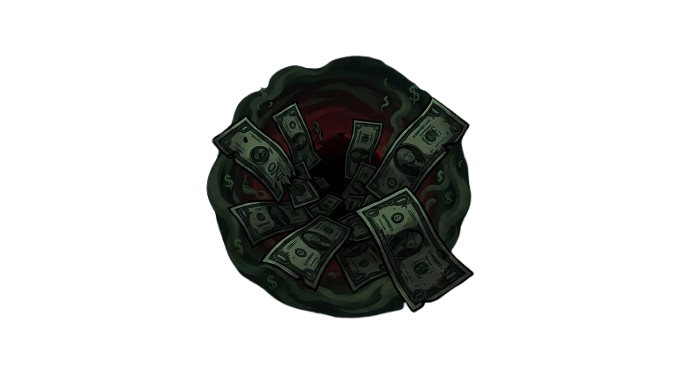
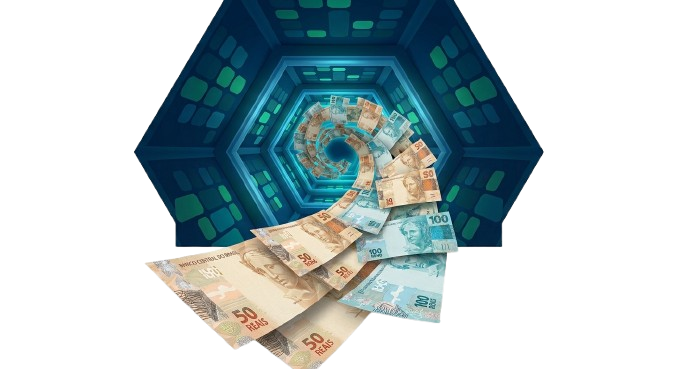
refactor:conclusão das melhorias

diff --git a/templates/dashboard.html b/templates/dashboard.html
@@ -251,7 +251,200 @@
     {% endif %}
   </div>
 
+  <!-- ── Animated Investment Section ─────────────────────────────────────────── -->
+  <div class="relative mt-24 mb-6 mx-auto max-w-5xl h-[380px] rounded-[2rem] overflow-hidden glass opacity-0 transition-opacity duration-1000 flex items-center justify-center border border-white/5 glow-sm reveal-on-scroll">
+    <!-- Imagem vindo da direita -->
+    <img
+      src="/assets/invest.webp"
+      alt="Investimentos"
+      class="absolute right-0 z-0 w-3/4 h-full object-cover translate-x-full transition-transform duration-[1.8s] ease-in-out reveal-img"
+      style="mask-image: linear-gradient(to right, transparent 0%, rgba(0,0,0,0.4) 30%, rgba(0,0,0,1) 100%);
+             -webkit-mask-image: linear-gradient(to right, transparent 0%, rgba(0,0,0,0.4) 30%, rgba(0,0,0,1) 100%);"
+    />
+
+    <div class="absolute inset-0 bg-gradient-to-r from-slate-950 via-slate-950/80 to-transparent z-10 w-full pointer-events-none"></div>
+
+    <!-- Texto motivacional na esquerda -->
+    <div class="relative z-20 text-left w-full px-8 md:px-12 md:w-3/5 ml-0 mr-auto text-shadow-lg">
+      <h3 class="text-3xl md:text-4xl font-bold bg-clip-text text-transparent bg-gradient-to-r from-brand-400 to-indigo-300 tracking-tight mb-3">Expanda seu Império</h3>
+      <p class="text-slate-300 text-sm md:text-base leading-relaxed">
+        Diversifique seu radar com novas oportunidades mundiais. Mantenha os olhos nos fundamentos sólidos e deixe o poder avassalador dos juros compostos trabalhar o tempo a seu favor.
+      </p>
+    </div>
+
+    <!-- Tickers flutuando subindo (marquee vertical) -->
+    <div class="absolute right-4 md:right-12 bottom-0 z-20 flex flex-col overflow-hidden h-[300px] w-32 md:w-48 fade-mask pointer-events-none">
+      <div class="animate-marquee-up flex flex-col gap-3 md:gap-4 text-xs md:text-sm font-mono font-bold">
+        <div class="glass py-2 px-3 md:px-4 rounded-xl text-emerald-400 flex justify-between shadow-lg"><span>PETR4</span> <span>+5.2%</span></div>
+        <div class="glass py-2 px-3 md:px-4 rounded-xl text-emerald-400 flex justify-between shadow-lg"><span>NVDA</span> <span>+8.1%</span></div>
+        <div class="glass py-2 px-3 md:px-4 rounded-xl text-red-400 flex justify-between shadow-lg"><span>MGLU3</span> <span>-1.5%</span></div>
+        <div class="glass py-2 px-3 md:px-4 rounded-xl text-emerald-400 flex justify-between shadow-lg"><span>WEGE3</span> <span>+3.8%</span></div>
+        <div class="glass py-2 px-3 md:px-4 rounded-xl text-emerald-400 flex justify-between shadow-lg"><span>BTC</span> <span>+11.2%</span></div>
+        <div class="glass py-2 px-3 md:px-4 rounded-xl text-emerald-400 flex justify-between shadow-lg"><span>ITUB4</span> <span>+1.2%</span></div>
+        <!-- Duplicados para loop contínuo -->
+        <div class="glass py-2 px-3 md:px-4 rounded-xl text-emerald-400 flex justify-between shadow-lg"><span>PETR4</span> <span>+5.2%</span></div>
+        <div class="glass py-2 px-3 md:px-4 rounded-xl text-emerald-400 flex justify-between shadow-lg"><span>NVDA</span> <span>+8.1%</span></div>
+        <div class="glass py-2 px-3 md:px-4 rounded-xl text-red-400 flex justify-between shadow-lg"><span>MGLU3</span> <span>-1.5%</span></div>
+        <div class="glass py-2 px-3 md:px-4 rounded-xl text-emerald-400 flex justify-between shadow-lg"><span>WEGE3</span> <span>+3.8%</span></div>
+        <div class="glass py-2 px-3 md:px-4 rounded-xl text-emerald-400 flex justify-between shadow-lg"><span>BTC</span> <span>+11.2%</span></div>
+        <div class="glass py-2 px-3 md:px-4 rounded-xl text-emerald-400 flex justify-between shadow-lg"><span>ITUB4</span> <span>+1.2%</span></div>
+      </div>
+    </div>
+  </div>
+
+  <style>
+    /* Reveal via Observer */
+    .reveal-active {
+      opacity: 1 !important;
+    }
+    .reveal-active .reveal-img {
+      transform: translateX(0) !important;
+    }
+    
+    @keyframes marqueeUp {
+      0%   { transform: translateY(0); }
+      100% { transform: translateY(-50%); }
+    }
+    .animate-marquee-up {
+      animation: marqueeUp 20s linear infinite;
+    }
+    
+    .fade-mask {
+      mask-image: linear-gradient(to bottom, transparent 0%, rgba(0,0,0,1) 20%, rgba(0,0,0,1) 80%, transparent 100%);
+      -webkit-mask-image: linear-gradient(to bottom, transparent 0%, rgba(0,0,0,1) 20%, rgba(0,0,0,1) 80%, transparent 100%);
+    }
+    
+    .text-shadow-lg {
+      text-shadow: 0 4px 15px rgba(0,0,0,0.9);
+    }
+    
+    .reveal-active .reveal-center {
+      opacity: 1 !important;
+      transform: scale(1) translateY(0) !important;
+    }
+    .reveal-active .reveal-item-left,
+    .reveal-active .reveal-item-right {
+      opacity: 1 !important;
+      transform: translateX(0) !important;
+    }
+
+    /* Money Burst Animation */
+    .reveal-active .money-burst span {
+      display: block;
+      animation: burst 1.5s cubic-bezier(0.1, 1, 0.4, 1) forwards;
+      animation-delay: 1.8s; /* waits for slider connection */
+      opacity: 0;
+    }
+
+    @keyframes burst {
+      0%   { transform: scale(0) translate(0, 0); opacity: 0; }
+      10%  { opacity: 1; }
+      100% { opacity: 0; transform: scale(1.5) translate(var(--tx), var(--ty)) rotate(var(--rot)); }
+    }
+    
+    .particle-1 { --tx: -120px; --ty: -120px; --rot: -45deg; }
+    .particle-2 { --tx: 120px;  --ty: -120px; --rot: 45deg; }
+    .particle-3 { --tx: -150px; --ty: 0px;    --rot: -20deg; }
+    .particle-4 { --tx: 150px;  --ty: 0px;    --rot: 20deg; }
+    .particle-5 { --tx: -100px; --ty: 120px;  --rot: -70deg; }
+    .particle-6 { --tx: 100px;  --ty: 120px;  --rot: 70deg; }
+  </style>
+
 </div>
+
+  <!-- ── Animated Idea Section ─────────────────────────────────────────── -->
+  <div class="relative mt-6 mb-20 mx-auto max-w-5xl h-[380px] rounded-[2rem] overflow-hidden glass opacity-0 transition-opacity duration-1000 flex items-center justify-center border border-white/5 glow-sm reveal-on-scroll">
+    <!-- Imagem vindo da esquerda -->
+    <img
+      src="/assets/ideia.jpg"
+      alt="Visão de Ouro"
+      class="absolute left-0 z-0 w-3/4 h-full object-cover -translate-x-full transition-transform duration-[1.8s] ease-in-out reveal-img"
+      style="mask-image: linear-gradient(to left, transparent 0%, rgba(0,0,0,0.4) 30%, rgba(0,0,0,1) 100%);
+             -webkit-mask-image: linear-gradient(to left, transparent 0%, rgba(0,0,0,0.4) 30%, rgba(0,0,0,1) 100%);"
+    />
+
+    <div class="absolute inset-0 bg-gradient-to-l from-slate-950 via-slate-950/80 to-transparent z-10 w-full pointer-events-none"></div>
+
+    <!-- Texto motivacional na direita -->
+    <div class="relative z-20 text-right w-full px-8 md:px-12 md:w-3/5 mr-0 ml-auto text-shadow-lg">
+      <h3 class="text-3xl md:text-4xl font-bold bg-clip-text text-transparent bg-gradient-to-l from-brand-400 to-indigo-300 tracking-tight mb-3">Perspectiva de Ouro</h3>
+      <p class="text-slate-300 text-sm md:text-base leading-relaxed">
+        Cada movimento no mercado é uma nova oportunidade. A intuição aliada ao conhecimento profundo te coloca invariavelmente um passo à frente da manada no tabuleiro financeiro.
+      </p>
+    </div>
+  </div>
+
+  <!-- ── Animated Contacts Section ─────────────────────────────────────────── -->
+  <div class="relative mt-20 mb-24 mx-auto max-w-4xl flex flex-col items-center opacity-0 transition-opacity duration-1000 reveal-on-scroll">
+    <h2 class="text-4xl md:text-5xl font-bold bg-clip-text text-transparent bg-gradient-to-r from-brand-400 to-indigo-400 tracking-tight mb-16 scale-50 translate-y-10 opacity-0 transition-all duration-[1.5s] ease-out reveal-center">Contatos</h2>
+    
+    <div class="relative flex flex-col md:flex-row items-center justify-center gap-16 w-full px-4">
+      
+      <!-- Money burst effect triggered automatically at 1.8s -->
+      <div class="hidden md:flex absolute left-1/2 top-1/2 -translate-x-1/2 -translate-y-1/2 z-50 pointer-events-none items-center justify-center money-burst">
+        <span class="absolute text-5xl particle-1 drop-shadow-xl">💸</span>
+        <span class="absolute text-5xl particle-2 drop-shadow-xl">💰</span>
+        <span class="absolute text-5xl particle-3 drop-shadow-xl">🤑</span>
+        <span class="absolute text-5xl particle-4 drop-shadow-xl">💵</span>
+        <span class="absolute text-5xl particle-5 drop-shadow-xl">🪙</span>
+        <span class="absolute text-5xl particle-6 drop-shadow-xl">💲</span>
+      </div>
+
+      <!-- Photo from left -->
+      <div class="relative w-64 h-64 md:w-80 md:h-80 rounded-[2rem] overflow-visible border border-white/10 glow-sm -translate-x-full opacity-0 transition-all duration-[1.8s] ease-out reveal-item-left shadow-2xl flex-shrink-0 bg-slate-900 z-10">
+        <img src="/assets/eu.jpg" alt="Alisson" class="w-full h-full object-cover object-top scale-105 hover:scale-110 transition-transform duration-500 rounded-[2rem]">
+        <!-- Chave -->
+        <div class="hidden md:block absolute top-1/2 -right-8 -translate-y-1/2 text-6xl drop-shadow-lg z-20 key-icon">🔑</div>
+      </div>
+      
+      <!-- GitHub from right -->
+      <div class="relative flex flex-col items-center md:items-start text-center md:text-left translate-x-full opacity-0 transition-all duration-[1.8s] ease-out reveal-item-right bg-slate-900/80 backdrop-blur-md p-8 rounded-[2rem] border border-white/5 w-full md:w-auto shadow-2xl z-10">
+        <!-- Fechadura -->
+        <div class="hidden md:block absolute top-1/2 -left-8 -translate-y-1/2 text-6xl drop-shadow-lg z-20 lock-icon">🔒</div>
+        <p class="text-sm text-slate-400 uppercase tracking-widest font-bold mb-2">Desenvolvido por</p>
+        <p class="text-4xl font-bold text-slate-100 mb-8 tracking-tight">Alisson</p>
+        <div class="flex flex-col gap-4 w-full">
+          <!-- LinkedIn -->
+          <a href="https://www.linkedin.com/in/alisson-da-silva-bernadino-6535b3318/" target="_blank" rel="noopener noreferrer" class="inline-flex items-center justify-center gap-3 w-full px-8 py-3 bg-gradient-to-r from-[#0077b5] to-[#005582] hover:from-[#005582] hover:to-[#003b5a] text-white rounded-2xl glow hover:scale-[1.02] active:scale-[0.98] transition-all duration-200 font-bold text-lg cursor-pointer">
+            <svg fill="currentColor" viewBox="0 0 24 24" class="w-6 h-6"><path d="M19 0h-14c-2.761 0-5 2.239-5 5v14c0 2.761 2.239 5 5 5h14c2.762 0 5-2.239 5-5v-14c0-2.761-2.238-5-5-5zm-11 19h-3v-11h3v11zm-1.5-12.268c-.966 0-1.75-.79-1.75-1.764s.784-1.764 1.75-1.764 1.75.79 1.75 1.764-.783 1.764-1.75 1.764zm13.5 12.268h-3v-5.604c0-3.368-4-3.113-4 0v5.604h-3v-11h3v1.765c1.396-2.586 7-2.777 7 2.476v6.759z"/></svg>
+            LinkedIn
+          </a>
+          <!-- GitHub -->
+          <a href="https://github.com/alissonjcjk" target="_blank" rel="noopener noreferrer" class="inline-flex items-center justify-center gap-3 w-full px-8 py-3 bg-gradient-to-r from-brand-600 to-indigo-600 hover:from-brand-500 hover:to-indigo-500 text-white rounded-2xl glow hover:scale-[1.02] active:scale-[0.98] transition-all duration-200 font-bold text-lg cursor-pointer">
+            <svg fill="currentColor" viewBox="0 0 24 24" class="w-6 h-6"><path fill-rule="evenodd" clip-rule="evenodd" d="M12 2C6.477 2 2 6.484 2 12.017c0 4.425 2.865 8.18 6.839 9.504.5.092.682-.217.682-.483 0-.237-.008-.868-.013-1.703-2.782.605-3.369-1.343-3.369-1.343-.454-1.158-1.11-1.466-1.11-1.466-.908-.62.069-.608.069-.608 1.003.07 1.531 1.032 1.531 1.032.892 1.53 2.341 1.088 2.91.832.092-.647.35-1.088.636-1.338-2.22-.253-4.555-1.113-4.555-4.951 0-1.093.39-1.988 1.029-2.688-.103-.253-.446-1.272.098-2.65 0 0 .84-.27 2.75 1.026A9.564 9.564 0 0112 6.844c.85.004 1.705.115 2.504.337 1.909-1.296 2.747-1.027 2.747-1.027.546 1.379.202 2.398.1 2.651.64.7 1.028 1.595 1.028 2.688 0 3.848-2.339 4.695-4.566 4.943.359.309.678.92.678 1.855 0 1.338-.012 2.419-.012 2.747 0 .268.18.58.688.482A10.019 10.019 0 0022 12.017C22 6.484 17.522 2 12 2z"/></svg>
+            GitHub
+          </a>
+        </div>
+      </div>
+    </div>
+  </div>
+
+  <!-- ── Professional Footer ─────────────────────────────────────────────────── -->
+  <footer class="mt-32 border-t border-white/5 py-12 px-4 relative z-10 w-full overflow-hidden">
+    <!-- Subtle glow background -->
+    <div class="absolute inset-0 bg-gradient-to-t from-slate-900 via-slate-950 to-slate-950/0 pointer-events-none"></div>
+    <div class="absolute -bottom-[150px] left-1/2 -translate-x-1/2 w-[600px] h-[200px] bg-brand-600/10 blur-[90px] rounded-full pointer-events-none"></div>
+    
+    <div class="max-w-4xl mx-auto flex flex-col md:flex-row justify-between items-center gap-8 relative z-20">
+      <div class="text-center md:text-left">
+        <h4 class="text-xl font-bold text-slate-100 mb-1">Alisson da Silva Bernadino</h4>
+        <p class="text-brand-400 font-mono text-sm mb-3">Desenvolvedor Fullstack</p>
+        <p class="text-slate-400 text-sm max-w-sm">
+          Aluno de Ciência da Computação na <span class="text-slate-200 font-bold">UFPE</span>.
+        </p>
+      </div>
+      
+      <div class="text-center md:text-right">
+        <div class="inline-flex items-center justify-center gap-2 px-4 py-2.5 bg-red-600/10 border border-red-500/20 rounded-xl mb-3 shadow-[0_0_15px_rgba(220,38,38,0.1)]">
+          <span class="w-2 h-2 rounded-full bg-red-500 animate-pulse"></span>
+          <span class="text-xs font-bold text-red-400 uppercase tracking-widest shadow-sm">Santander Bootcamp</span>
+        </div>
+        <p class="text-slate-500 text-xs mt-1">
+          Projeto desenvolvido para o desafio Santander.
+        </p>
+      </div>
+    </div>
+  </footer>
 
 <!-- ── Toast Notification ─────────────────────────────────────────────────── -->
 <div id="toast" class="fixed bottom-6 right-6 z-[60] hidden">
@@ -601,5 +794,19 @@
   document.addEventListener('keydown', e => {
     if (e.key === 'Escape') { closeModal(); closeDeleteModal(); }
   });
+
+  // ── Intersection Observer for Animated Sections ──
+  const revealElements = document.querySelectorAll('.reveal-on-scroll');
+  if (revealElements.length > 0) {
+    const observer = new IntersectionObserver((entries) => {
+      entries.forEach(entry => {
+        if (entry.isIntersecting) {
+          entry.target.classList.add('reveal-active');
+          observer.unobserve(entry.target);
+        }
+      });
+    }, { threshold: 0.2 });
+    revealElements.forEach(el => observer.observe(el));
+  }
 </script>
 {% endblock %}

diff --git a/templates/register.html b/templates/register.html
@@ -35,10 +35,13 @@
 
     <!-- Logo / Header -->
     <div class="text-center mb-10">
-      <div class="inline-flex items-center justify-center w-20 h-20 glass rounded-2xl glow mb-6">
-        <img src="/assets/grana.png" alt="Grana"
-          class="w-20 h-20 scale-[3] object-contain pointer-events-none select-none animate-float inline-block" />
+      <div class="inline-flex items-center justify-center mb-6">
+        <div style="transform: scale(2.2);">
+          <img src="/assets/grana.png?v=novo" alt="Grana"
+            class="w-24 h-24 object-contain pointer-events-none select-none animate-float inline-block" />
+        </div>
       </div>
+
       <h1 class="text-3xl font-bold gradient-text tracking-tight">Criar Conta</h1>
       <p class="mt-2 text-slate-400 text-sm">Junte-se ao portfólio mais sombrio do mercado.</p>
     </div>